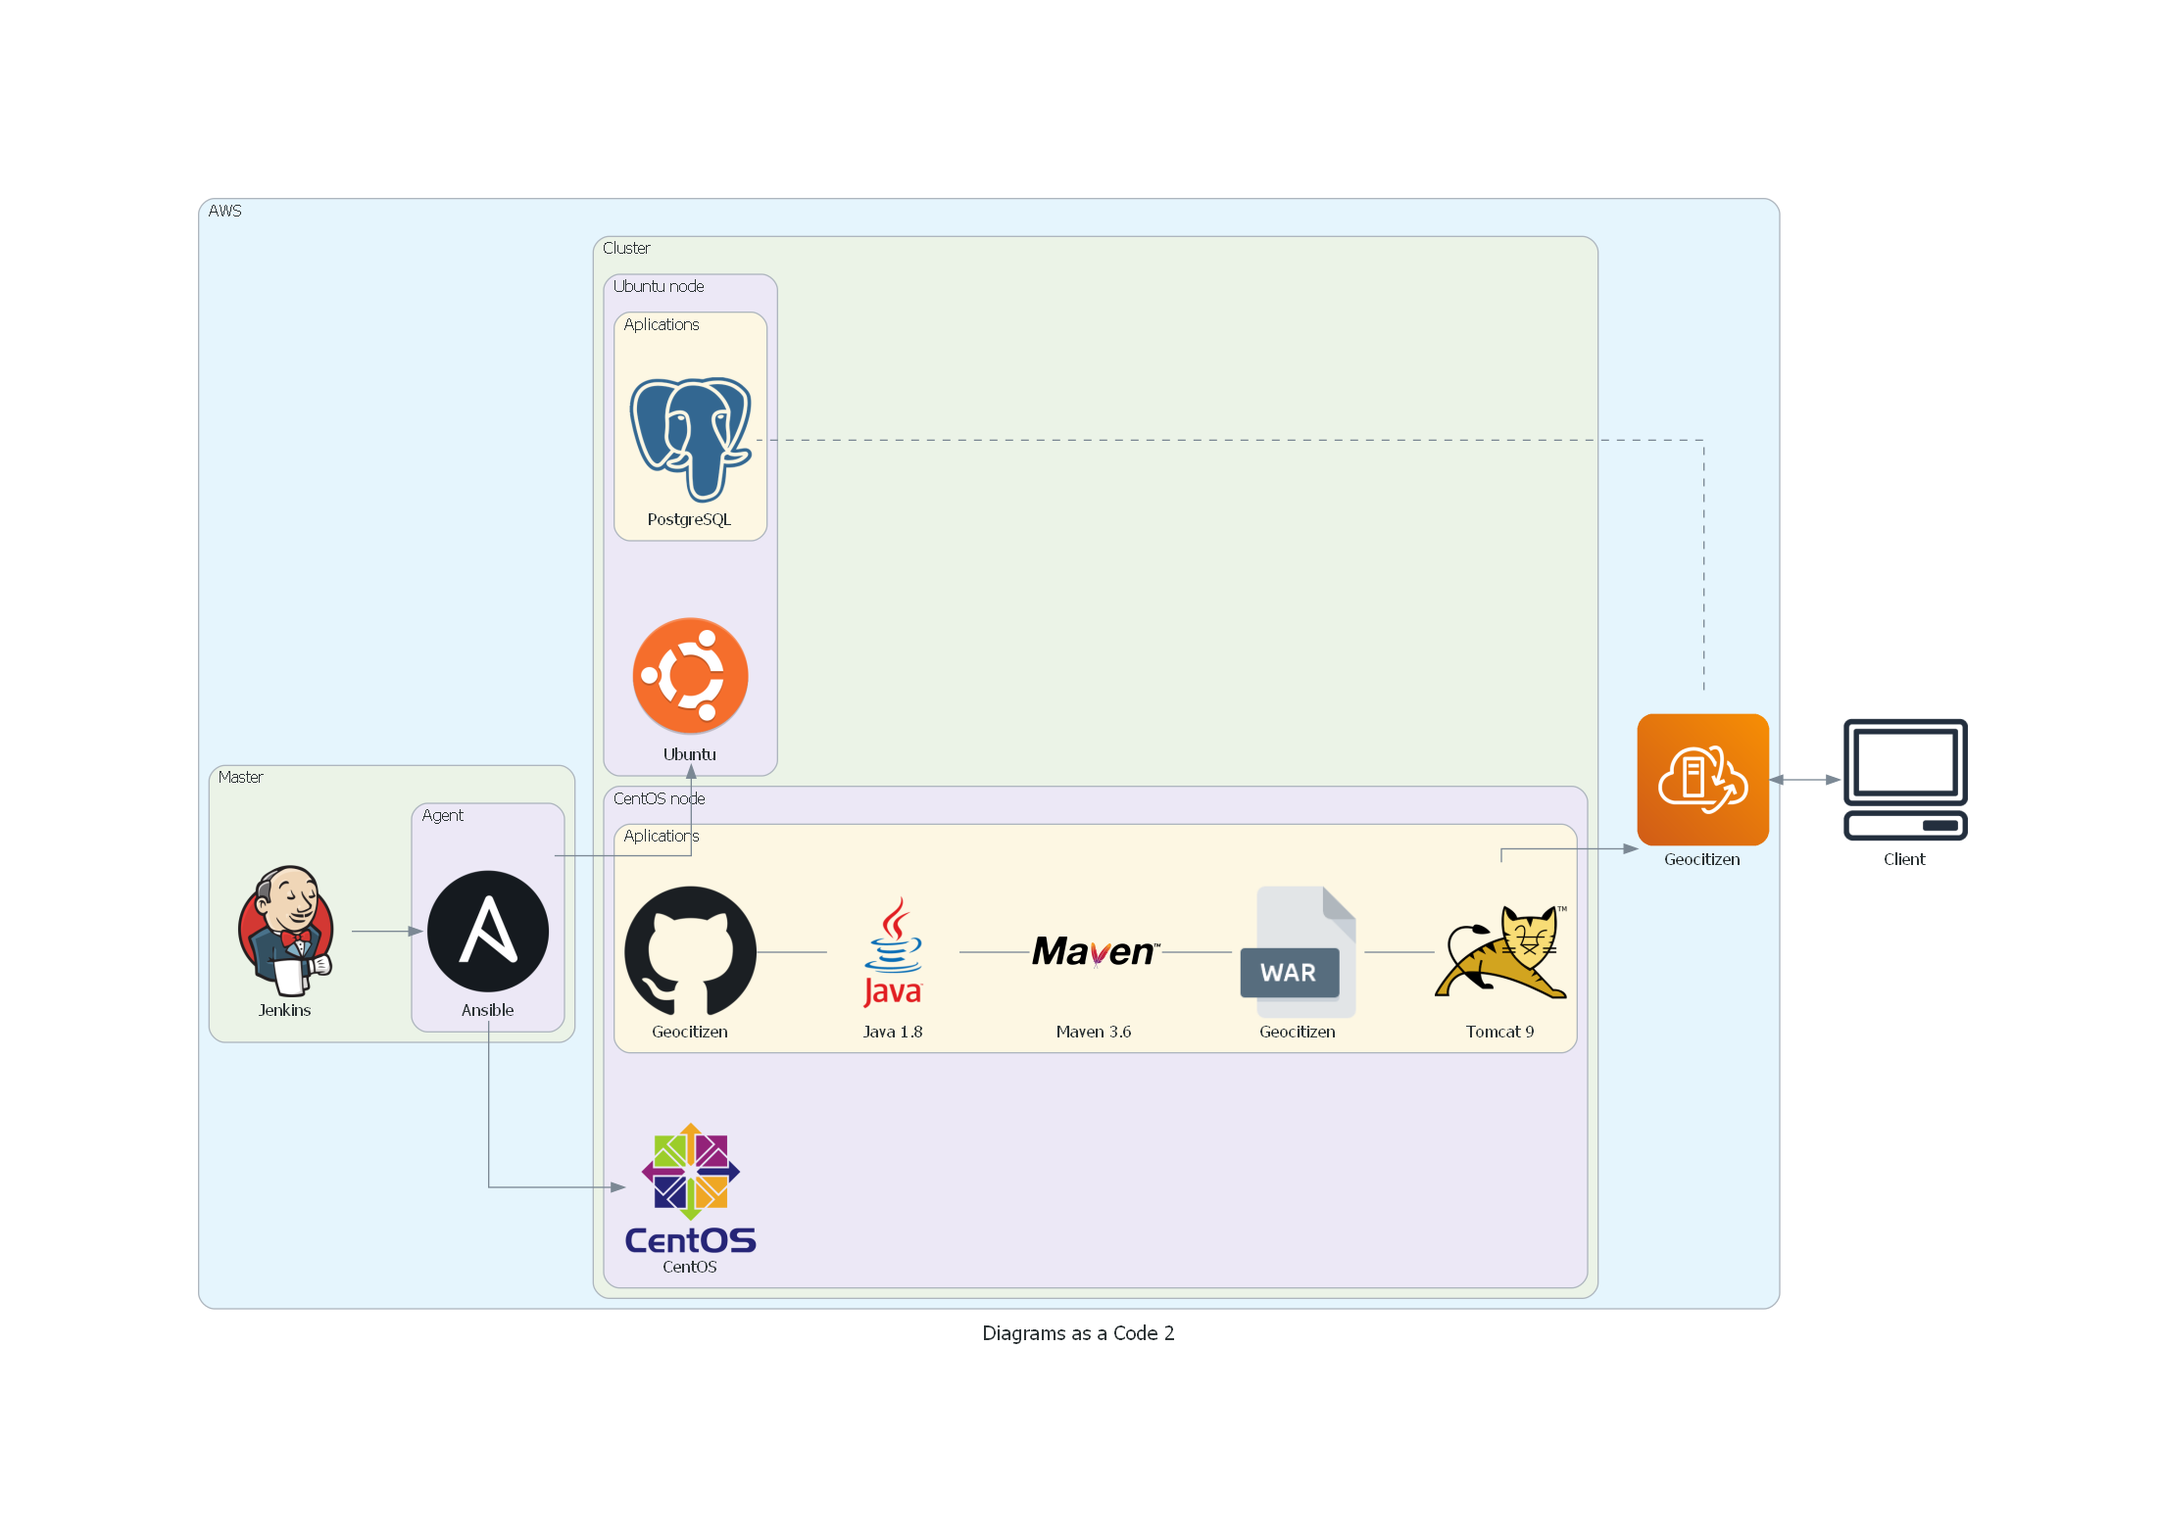
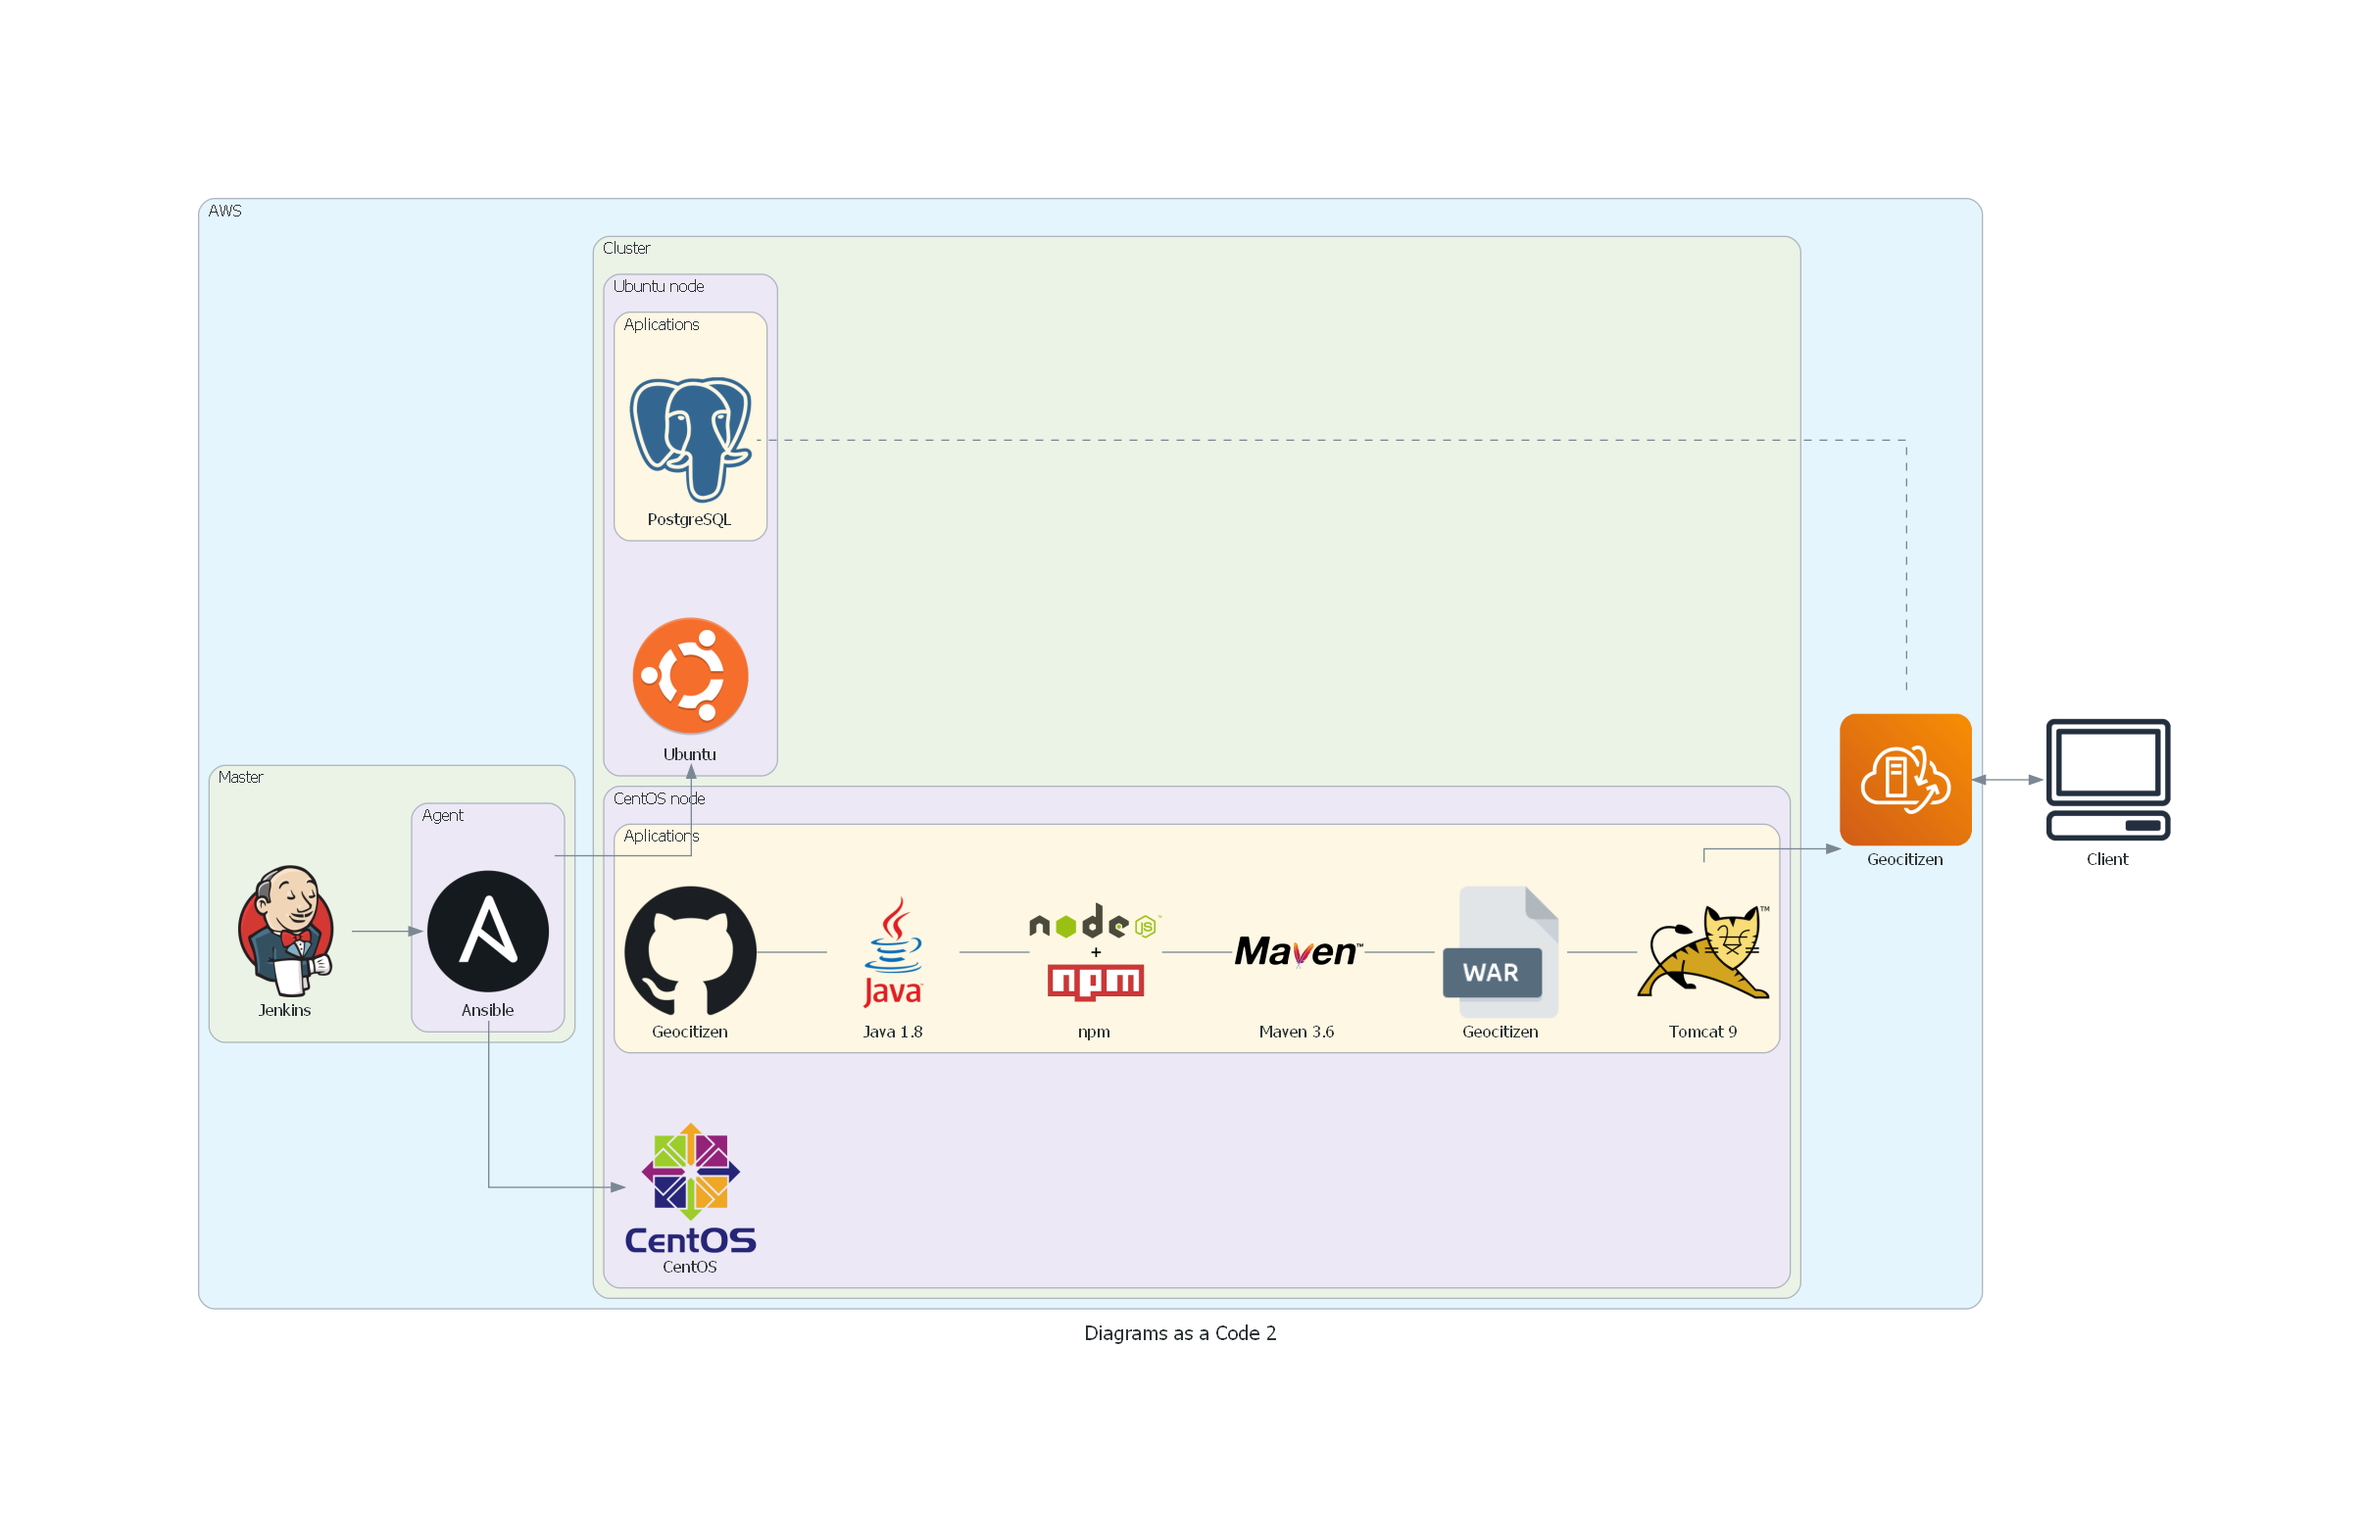
IA-117 fix: eidte diagram 2 added node+npm

diff --git a/Data visualisation/lifecycle_diagram_2.py b/Data visualisation/lifecycle_diagram_2.py
@@ -34,11 +34,12 @@ with Diagram("Diagrams as a Code 2", show=True, direction="LR"):
                 with Cluster('Aplications', 'TB'):
                     maven = Custom(
                         'Maven 3.6', './icons/Apache_Maven_logo.svg.png')
+                    nodenpm = Custom('npm', './icons/nodejs-npm.png')
                     geocitizen = Custom('Geocitizen', './icons/war.png')
                     github = Github('Geocitizen')
                     tomcat = Tomcat('Tomcat 9')
                     java = Java('Java 1.8')
-                    github - java - maven - geocitizen - tomcat
+                    github - java - nodenpm - maven - geocitizen - tomcat
                     tomcat >> geocitizen_website
 
         with Cluster('Master'):
